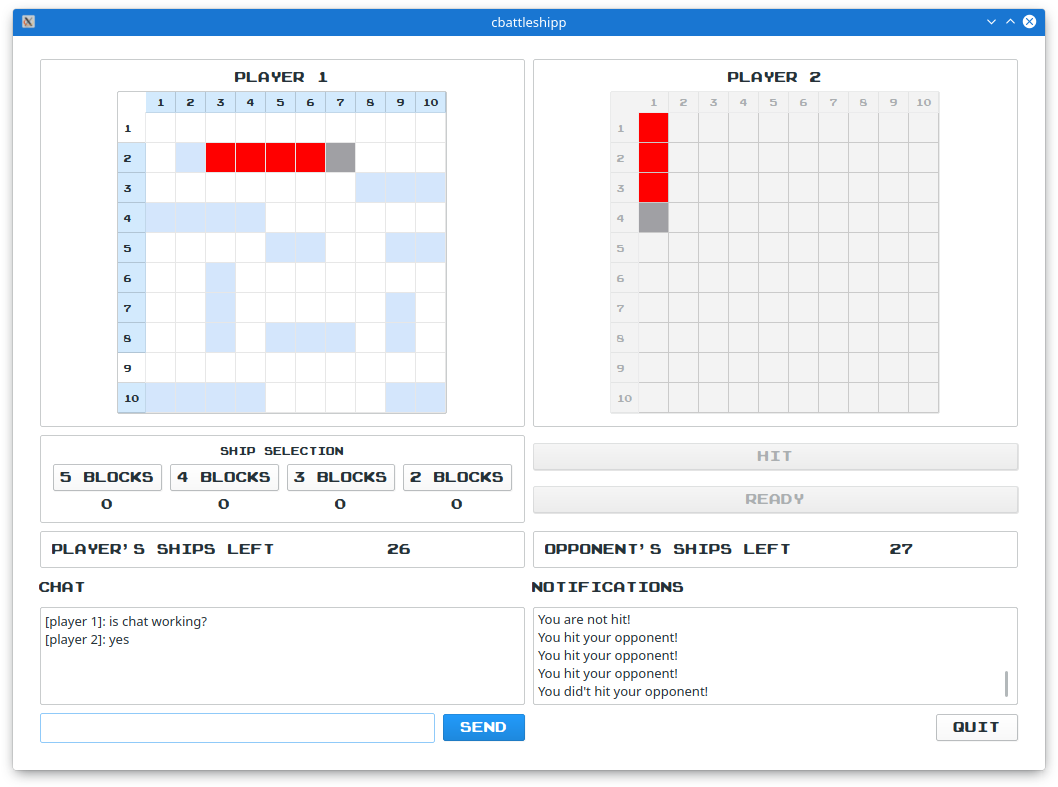
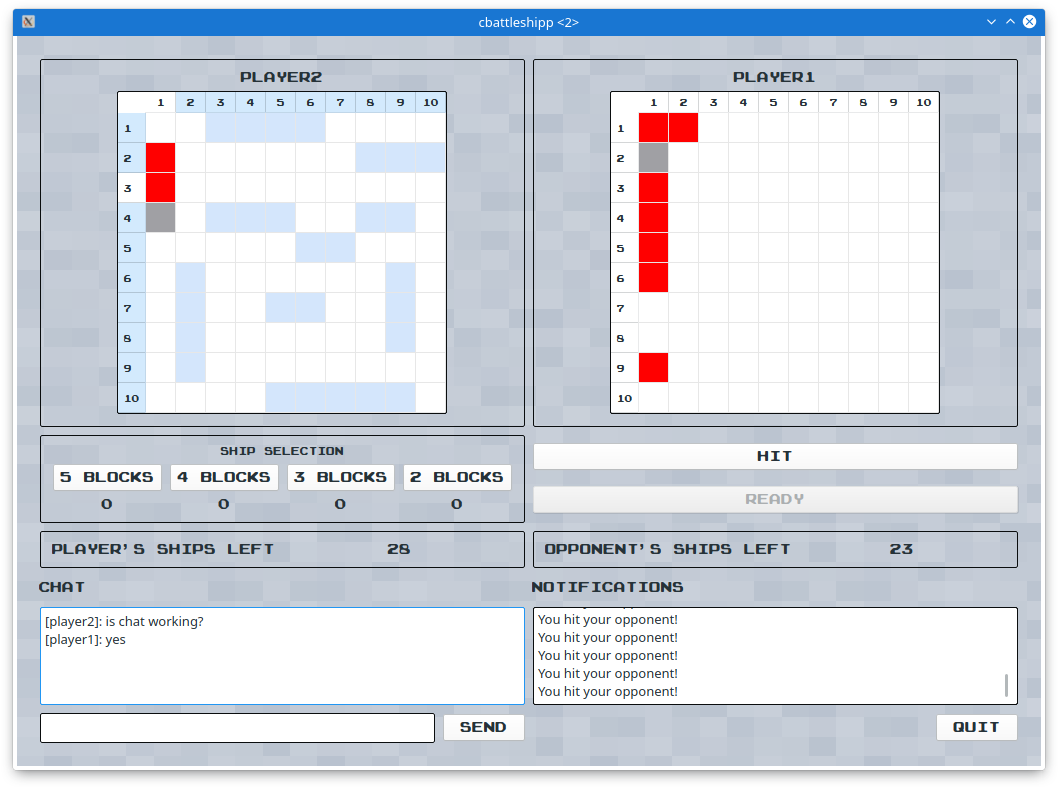
Fixed bugs Server doesn't crash when rematch starts and one player quits Added final ui change (probably) Better implementation of server side methods

diff --git a/src/CBattleshippServer/gamemanager.cpp b/src/CBattleshippServer/gamemanager.cpp
@@ -49,10 +49,14 @@ Player *GameManager::findIngamePlayer(int playerType, int gameId) const
 {
     for (auto & game : m_activeGames) {
         if (game.m_gameId == gameId) {
-            if (game.m_player1->m_playerType == playerType)
-                return  game.m_player1.get();
-            else
-                return game.m_player2.get();
+            if (game.m_player1 != nullptr) {
+                if (game.m_player1->m_playerType == playerType)
+                    return game.m_player1.get();
+            }
+            if (game.m_player2 != nullptr) {
+                if (game.m_player2->m_playerType == playerType)
+                    return game.m_player2.get();
+            }
         }
     }
 
@@ -67,10 +71,16 @@ Player *GameManager::findPlayer(qintptr sd) const
     }
 
     for (auto & game : m_activeGames) {
-        if (sd == game.m_player1->m_socket.get()->socketDescriptor())
-            return game.m_player1.get();
-        else if (sd == game.m_player2->m_socket.get()->socketDescriptor())
-            return game.m_player2.get();
+        if (game.m_gameId != -1) {
+            if (game.m_player1 != nullptr) {
+                if (game.m_player1->m_socket->socketDescriptor() == sd)
+                    return game.m_player1.get();
+            }
+            else if (game.m_player2 != nullptr) {
+                if (game.m_player2->m_socket->socketDescriptor() == sd)
+                    return game.m_player2.get();
+            }
+        }
     }
 
     return nullptr;
@@ -80,12 +90,19 @@ Player *GameManager::opponent(int playerType, int gameId) const
 {
     for (auto & game : m_activeGames) {
         if (game.m_gameId == gameId && game.m_gameId != -1) {
-            if (game.m_player1->m_playerType == playerType &&
-                game.m_player2->m_playerType != PlayerType::DELETED)
-                return  game.m_player2.get();
-            else if (game.m_player2->m_playerType == playerType &&
-                     game.m_player1->m_playerType != PlayerType::DELETED)
-                return game.m_player1.get();
+            if (playerType == PLAYER1) {
+                if (game.m_player2 == nullptr)
+                    return nullptr;
+                else if (game.m_player2->m_playerType != DELETED)
+                    return game.m_player2.get();
+            }
+
+            if (playerType == PLAYER2) {
+                if (game.m_player1 == nullptr)
+                    return nullptr;
+                else if (game.m_player1->m_playerType != DELETED)
+                    return game.m_player1.get();
+            }
         }
     }
 
@@ -95,15 +112,26 @@ Player *GameManager::opponent(int playerType, int gameId) const
 
 Player *GameManager::opponent(qintptr sd) const
 {
+    auto player = findPlayer(sd);
+
+    if (player == nullptr)
+        return nullptr;
+
     for (auto & game : m_activeGames) {
-        if (game.m_gameId != -1) {
-            if (sd == game.m_player1->m_socket.get()->socketDescriptor() &&
-                    game.m_player2->m_playerType != PlayerType::DELETED) {
-                return game.m_player2.get();
+        if (player->m_gameId == game.m_gameId && game.m_gameId != -1) {
+            if (player->m_playerType == PLAYER1) {
+                if (game.m_player2 == nullptr)
+                    return nullptr;
+                else if (game.m_player2->m_playerType != DELETED) {
+                    return game.m_player2.get();
+                }
             }
-            else if (sd == game.m_player2->m_socket.get()->socketDescriptor() &&
-                     game.m_player1->m_playerType != PlayerType::DELETED) {
-                return game.m_player1.get();
+            if (player->m_playerType == PLAYER2) {
+                if (game.m_player1 == nullptr)
+                    return nullptr;
+                else if (game.m_player1->m_playerType != DELETED) {
+                    return game.m_player1.get();
+                }
             }
         }
     }
@@ -138,16 +166,11 @@ void GameManager::removePlayer(Player *player)
     // player is in a game
     else {
         for (auto & game : m_activeGames) {
-            if (game.m_player1->m_playerId == player->m_playerId) {
-                // mark player for deletion
-                game.m_player1->m_playerType = PlayerType::DELETED;
-
-                return;
-            }
-            else if (game.m_player2->m_playerId == player->m_playerId) {
-                // mark player for deletion
-                game.m_player2->m_playerType = PlayerType::DELETED;
-                return;
+            if (game.m_gameId == player->m_gameId) {
+                if (player->m_playerType == PLAYER1)
+                    game.m_player1->m_playerType = PlayerType::DELETED;
+                else if (player->m_playerType == PLAYER2)
+                    game.m_player2->m_playerType = PlayerType::DELETED;
             }
         }
     }
@@ -171,6 +194,11 @@ void GameManager::startGame()
 
     player1->m_playerType = PlayerType::PLAYER1;
     player2->m_playerType = PlayerType::PLAYER2;
+
+    // set player's game id
+    player1->m_gameId = m_gameCounter;
+    player2->m_gameId = m_gameCounter;
+
 
     // send opponent info
     QJsonObject msg1;

diff --git a/src/CBattleshipp/mainwindow.cpp b/src/CBattleshipp/mainwindow.cpp
@@ -49,7 +49,7 @@ MainWindow::MainWindow(QWidget *parent) :
     connect(ui->quitButton, SIGNAL(clicked(bool)), this, SLOT(onQuitClicked()));
 
     // set application background
-    QPixmap background(":/images/background_pixelized.png");
+    QPixmap background(":/images/background.png");
 
     background = background.scaled(this->size(), Qt::IgnoreAspectRatio);
     QPalette palette;
@@ -86,12 +86,6 @@ void MainWindow::onPlayClicked()
         QJsonDocument document(request);
 
         m_player.m_socket->write(document.toJson());
-
-        // change background to white
-        QPalette palette;
-        palette.setBrush(QPalette::Background, Qt::white);
-        this->setPalette(palette);
-
     }
     else {
         QMessageBox msgBox;
@@ -272,9 +266,10 @@ void MainWindow::reduceBoatCount()
     }
 }
 
-void MainWindow::resetUi()
+void MainWindow::resetGameUi()
 {
     disablePlayerButtons();
+
 
     ui->teChat->clear();
 
@@ -283,29 +278,44 @@ void MainWindow::resetUi()
     ui->teNotifications->append("Wait for other player to joint the game.");
 
     // reset player's ships
-    for(int i = 0; i < ui->playerShips->rowCount(); ++i) {
+    for (int i = 0; i < ui->playerShips->rowCount(); ++i) {
         for (int j = 0; j < ui->playerShips->columnCount(); ++j) {
             if (ui->playerShips->item(i, j)->isSelected())
                 ui->playerShips->item(i, j)->setSelected(false);
         }
     }
 
-
-    for(int i = 0; i < ui->playerShips->rowCount(); ++i) {
+    for (int i = 0; i < ui->playerShips->rowCount(); ++i) {
         for (int j = 0; j < ui->playerShips->columnCount(); ++j) {
             ui->playerShips->item(i, j)->setBackgroundColor(Qt::white);
         }
     }
 
+    // reset ship counters
+    m_availableShipsSize2 = 4;
+    m_availableShipsSize3 = 3;
+    m_availableShipsSize4 = 2;
+    m_availableShipsSize5 = 1;
+
+    ui->countSize2->setText(QString::number(4));
+    ui->countSize3->setText(QString::number(3));
+    ui->countSize4->setText(QString::number(2));
+    ui->countSize5->setText(QString::number(1));
+
+    m_player.m_shipsLeft = 30;
+    ui->laPlayerShipsLeft->setText(QString::number(30));
+
     // reset opponent's ships
     ui->laTableOpponentName->setText("Opponent name");
 
-    for(int i = 0; i < ui->opponentShips->rowCount(); ++i) {
+    m_player.m_opponentShipsLeft = 30;
+    ui->laOpponentShipsLeft->setText(QString::number(30));
+
+    for (int i = 0; i < ui->opponentShips->rowCount(); ++i) {
         for (int j = 0; j < ui->opponentShips->columnCount(); ++j) {
             ui->opponentShips->item(i, j)->setBackgroundColor(Qt::white);
         }
     }
-
 }
 
 void MainWindow::deleteGray(int y, int x){
@@ -434,7 +444,7 @@ void MainWindow::handleOpponentDisconnectedResponse(QJsonObject & response)
     QJsonObject msg;
 
     if (msgBox.clickedButton() == buttonYes) {
-        resetUi();
+        resetGameUi();
 
         msg.insert("play_again", 1);
         msg.insert("player_type", m_player.m_playerType);
@@ -693,6 +703,8 @@ void MainWindow::onHitButtonClicked()
         msgBox.setIcon(QMessageBox::Information);
         msgBox.exec();
     }
+
+    m_opponentSelectedCell = false;
 }
 
 void MainWindow::handleAttackResponse(QJsonObject & response)
@@ -715,7 +727,7 @@ void MainWindow::handleAttackResponse(QJsonObject & response)
             QMessageBox::StandardButton replay = QMessageBox::question(this,"Game over" ,"You lost the game! Rematch?",
                                                                                    QMessageBox::Yes | QMessageBox::No);
             if(replay == QMessageBox::Yes){
-                resetUi();
+                resetGameUi();
 
                 QJsonObject playAgain;
                 playAgain.insert("play_again", 1);
@@ -759,7 +771,7 @@ void MainWindow::handleIfHitResponse(QJsonObject & response)
             QMessageBox::StandardButton replay = QMessageBox::question(this,"Game over" ,"VICTORY! Rematch?",
                                                                                    QMessageBox::Yes | QMessageBox::No);
             if(replay == QMessageBox::Yes){
-                resetUi();
+                resetGameUi();
 
                 QJsonObject playAgain;
                 playAgain.insert("play_again", 1);

diff --git a/src/CBattleshippServer/gameserver.cpp b/src/CBattleshippServer/gameserver.cpp
@@ -102,20 +102,20 @@ void GameServer::playerDisconnected()
 {
     QTcpSocket *socket = static_cast<QTcpSocket*>(sender());
 
-    auto oppSocket= m_gm.opponentSocket(socket->socketDescriptor());
+    auto opp = m_gm.opponent(socket->socketDescriptor());
     auto player = m_gm.findPlayer(socket->socketDescriptor());
 
+    // remove player from game
+    m_gm.removePlayer(player);
+
     // if player was in a game, send opponent disconnected response
-    if (oppSocket != nullptr) {
+    if (opp != nullptr) {
         QJsonObject msg;
         msg.insert("od", 1);
         QJsonDocument doc(msg);
 
-        oppSocket->write(doc.toJson());
+        opp->m_socket->write(doc.toJson());
     }
-
-    // remove player from game
-    m_gm.removePlayer(player);
 
     emit log("Player disconnected");
 }
@@ -141,14 +141,14 @@ void GameServer::handleChatRequest(QJsonObject & request)
     qDebug() << "Sending: " << doc.toJson();
 
     if (request.value("player_type").toInt() == PLAYER1) {
-        auto socket = m_gm.opponentSocket(PLAYER1, request.value("game_id").toInt());
-        if (socket != nullptr)
-            socket->write(doc.toJson());
+        auto opp = m_gm.opponent(PLAYER1, request.value("game_id").toInt());
+        if (opp != nullptr)
+            opp->m_socket->write(doc.toJson());
     }
     else {
-        auto socket = m_gm.opponentSocket(PLAYER2, request.value("game_id").toInt());
-        if (socket != nullptr)
-            socket->write(doc.toJson());
+        auto opp = m_gm.opponent(PLAYER2, request.value("game_id").toInt());
+        if (opp != nullptr)
+            opp->m_socket->write(doc.toJson());
     }
 }
 
@@ -159,21 +159,29 @@ void GameServer::handlePlayAgainRequest(QJsonObject &request)
         if (game.m_gameId == request.value("game_id").toInt() && game.m_gameId != -1) {
 
             if (request.value("player_type").toInt() == PlayerType::PLAYER1) {
+                // game ended with one player quiting
+                if (request.value("game_outcome").toInt() == -1)
+                    game.m_gameId = request.value("game_outcome").toInt();
+
+                if (request.value("game_outcome").toInt() == 42 &&
+                    m_gm.opponent(PLAYER1, game.m_gameId) == nullptr)
+                    game.m_gameId = -1;
 
                 game.m_player1->m_playerType = PlayerType::PLAY_AGAIN;
                 m_gm.addToWaitingList(std::move(game.m_player1));
 
-                if (request.value("game_outcome").toInt() == -1)
-                    game.m_gameId = request.value("game_outcome").toInt();
-
                 return;
             }
             else {
-                game.m_player2->m_playerType = PlayerType::PLAY_AGAIN;
-                m_gm.addToWaitingList(std::move(game.m_player2));
-
                 if (request.value("game_outcome").toInt() == -1)
                     game.m_gameId = request.value("game_outcome").toInt();
+
+                if (request.value("game_outcome").toInt() == 42 &&
+                    m_gm.opponent(PLAYER2, game.m_gameId) == nullptr)
+                    game.m_gameId = -1;
+
+                game.m_player2->m_playerType = PlayerType::PLAY_AGAIN;
+                m_gm.addToWaitingList(std::move(game.m_player2));
 
                 return;
             }

diff --git a/src/CBattleshippServer/player.cpp b/src/CBattleshippServer/player.cpp
@@ -10,7 +10,8 @@ Player::Player(Player &&other)
     : m_socket(std::move(other.m_socket)),
       m_name(std::move(other.m_name)),
       m_playerType(other.m_playerType),
-      m_playerId(other.m_playerId)
+      m_playerId(other.m_playerId),
+      m_gameId(other.m_gameId)
 {}
 
 

diff --git a/src/CBattleshipp/mainwindow.h b/src/CBattleshipp/mainwindow.h
@@ -78,7 +78,7 @@ private:
     void handleQuit();
     void deleteGray(int y, int x);
     void reduceBoatCount();
-    void resetUi();
+    void resetGameUi();
 
     // server handle response methods
     void handlePlayResponse(QJsonObject & response);

diff --git a/src/CBattleshippServer/player.h b/src/CBattleshippServer/player.h
@@ -38,6 +38,7 @@ private:
     uint8_t m_playerType = PlayerType::NEW;
 
     int m_playerId = 0;
+    qint32 m_gameId = 0;
 
     friend class GameServer;
     friend class GameManager;

diff --git a/src/CBattleshippServer/mainwindow.cpp b/src/CBattleshippServer/mainwindow.cpp
@@ -6,6 +6,7 @@ MainWindow::MainWindow(QWidget *parent) :
     ui(new Ui::MainWindow)
 {
     ui->setupUi(this);
+    QWidget::setWindowTitle("CBattleshippServer");
 }
 
 
